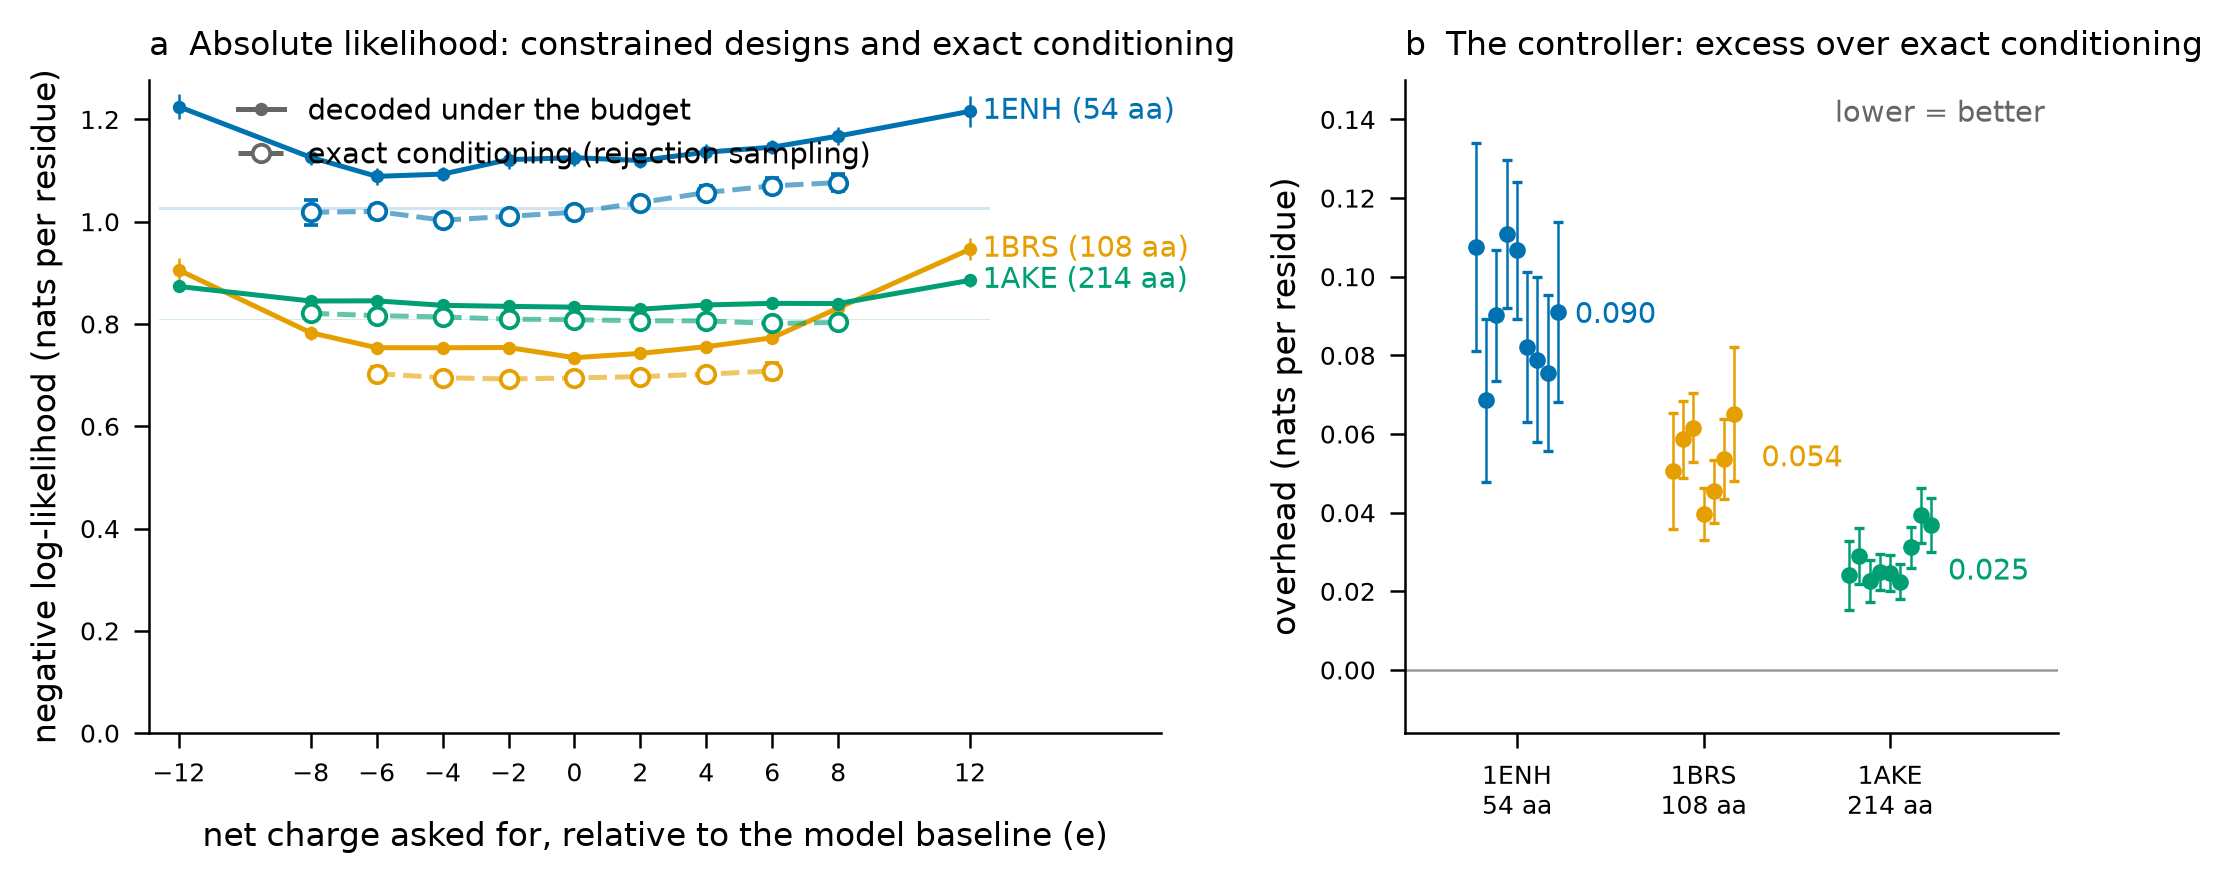
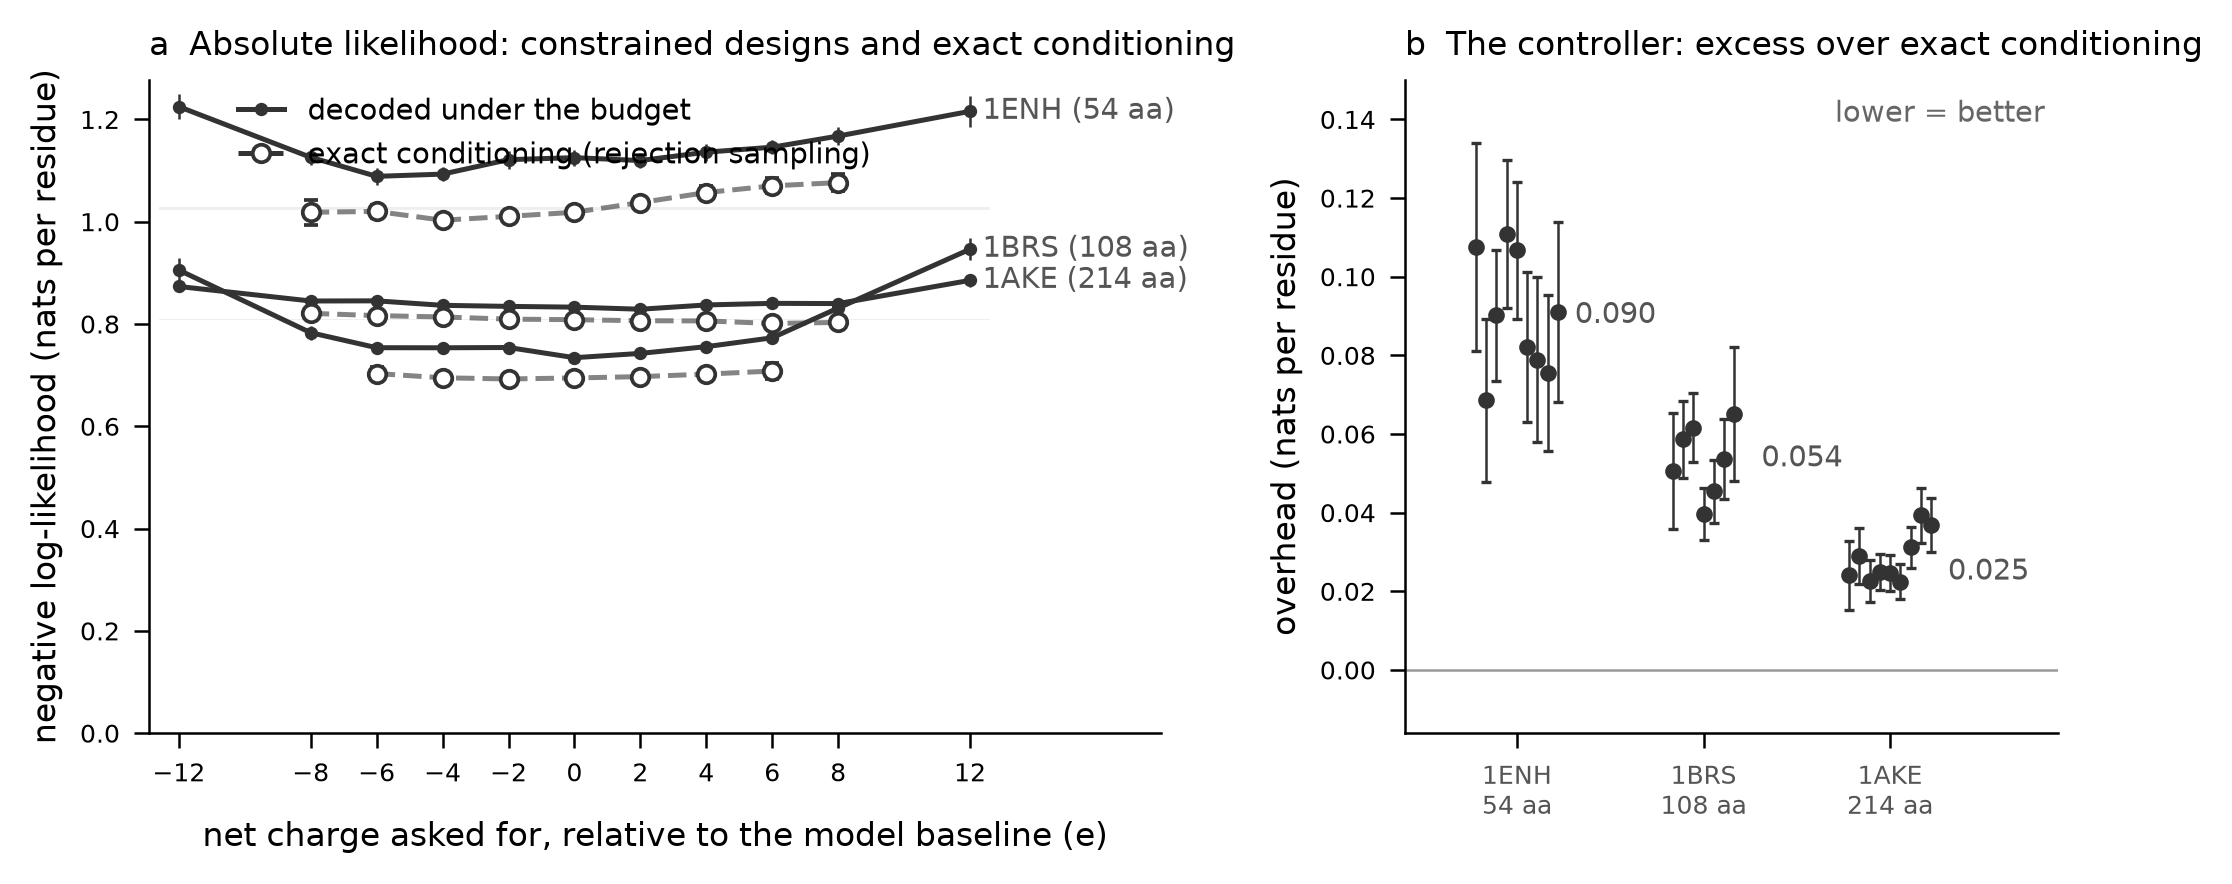
Use neutral gray only in benchmark figure; filled vs unfilled markers distinguish conditions
Panel (a): filled markers = constrained designs, unfilled = rejection sampling.
Both use gray line and gray point fill, no color per backbone. Pool baseline band
is light gray. Backbone labels are text only, no color coding.

Panel (b): overhead points in gray only; no colored median lines.

diff --git a/benchmarks/plot_charge_cost.py b/benchmarks/plot_charge_cost.py
@@ -3,9 +3,9 @@
     python benchmarks/plot_charge_cost.py     # reads results/charge_cost_summary.csv
 
 Panel (a) shows absolute per-residue NLL for designs decoded under the budget (filled markers) and
-the true conditional via rejection sampling (unfilled markers), connected by backbone.
-The shaded band is the unconstrained pool baseline ± 95% CI. Panel (b) is the controller's overhead,
-with error bars showing both sources of noise.
+the true conditional via rejection sampling (unfilled markers). Both use neutral gray; distinction
+is marker fill only. The shaded band is the unconstrained pool baseline ± 95% CI. Panel (b) shows
+the controller's overhead per backbone, with error bars.
 """
 import argparse
 import os
@@ -16,7 +16,7 @@ import pandas as pd
 from scipy import stats
 
 HERE = os.path.dirname(os.path.abspath(__file__))
-COLOURS = {'1ENH': '#0072B2', '1BRS': '#E69F00', '1AKE': '#009E73'}
+LINE_COLOUR = '#333333'
 SIZES = (8, 7, 6)
 
 def style() -> None:
@@ -50,32 +50,32 @@ def main() -> int:
 
     for backbone in order:
         rows = summary[summary.backbone == backbone].sort_values('offset')
-        colour = COLOURS[backbone]
         pool_nll = rows.pool_nll.iloc[0]; pool_sd = rows.pool_sd.iloc[0]; pool_n = rows.n_pool.iloc[0]
         pool_half = half_width(pool_sd, pool_n)
         nll_axes.fill_between(span, [pool_nll - pool_half] * 2, [pool_nll + pool_half] * 2, 
-                              color=colour, alpha=0.18, linewidth=0, zorder=1)
+                              color='#cccccc', alpha=0.3, linewidth=0, zorder=1)
         
-        # Constrained designs: filled markers with connecting line
+        # Constrained designs: filled markers with connecting line, neutral color
         error = [half_width(sd, n) for sd, n in zip(rows.constrained_sd, rows.n_constrained)]
-        nll_axes.plot(rows.offset, rows.constrained_nll, color=colour, linewidth=1.2, zorder=2)
-        nll_axes.errorbar(rows.offset, rows.constrained_nll, yerr=error, color=colour, marker='o',
-                          markersize=3.2, markerfacecolor=colour, markeredgewidth=0, 
+        nll_axes.plot(rows.offset, rows.constrained_nll, color=LINE_COLOUR, linewidth=1.2, zorder=2)
+        nll_axes.errorbar(rows.offset, rows.constrained_nll, yerr=error, color=LINE_COLOUR, marker='o',
+                          markersize=3.2, markerfacecolor=LINE_COLOUR, markeredgewidth=0, 
                           elinewidth=0.6, capsize=1.6, linestyle='none', zorder=3)
         
-        # Rejection sampling: unfilled markers with connecting line
+        # Rejection sampling: unfilled markers with connecting line, neutral color
         reference = rows.dropna(subset=['rejection_nll']).copy()
         if len(reference) > 0:
             reference_error = [half_width(sd, n) for sd, n in zip(reference.rejection_sd, reference.n_rejection)]
-            nll_axes.plot(reference.offset, reference.rejection_nll, color=colour, linewidth=1.2, 
+            nll_axes.plot(reference.offset, reference.rejection_nll, color=LINE_COLOUR, linewidth=1.2, 
                          linestyle='--', alpha=0.6, zorder=2)
             nll_axes.errorbar(reference.offset, reference.rejection_nll, yerr=reference_error,
-                              color=colour, marker='o', markersize=4.2, markerfacecolor='white', 
-                              markeredgewidth=0.9, linestyle='none', elinewidth=0.6, capsize=1.6, zorder=4)
+                              color=LINE_COLOUR, marker='o', markersize=4.2, markerfacecolor='white', 
+                              markeredgecolor=LINE_COLOUR, markeredgewidth=0.9, linestyle='none', 
+                              elinewidth=0.6, capsize=1.6, zorder=4)
         
         last = rows.iloc[-1]
         nll_axes.annotate(f'{backbone} ({last.length} aa)', xy=(last.offset, last.constrained_nll),
-                          xytext=(3, 0), textcoords='offset points', color=colour, va='center', fontsize=SIZES[1])
+                          xytext=(3, 0), textcoords='offset points', color='#555555', va='center', fontsize=SIZES[1])
 
     nll_axes.set_xlabel('net charge asked for, relative to the model baseline (e)', labelpad=8)
     nll_axes.set_ylabel('negative log-likelihood (nats per residue)')
@@ -84,29 +84,31 @@ def main() -> int:
     nll_axes.set_xlim(span[0] - 0.3, span[1] + 5.2)
     nll_axes.set_ylim(0, None)
     nll_axes.margins(y=0.02)
-    nll_axes.plot([], [], color='#666666', marker='o', markersize=3.2, markerfacecolor='#666666',
+    nll_axes.plot([], [], color=LINE_COLOUR, marker='o', markersize=3.2, markerfacecolor=LINE_COLOUR,
                   markeredgewidth=0, linestyle='-', linewidth=1.2, label='decoded under the budget')
-    nll_axes.plot([], [], color='#666666', marker='o', markersize=4.2, markerfacecolor='white',
-                  markeredgewidth=0.9, linestyle='--', linewidth=1.2, label='exact conditioning (rejection sampling)')
+    nll_axes.plot([], [], color=LINE_COLOUR, marker='o', markersize=4.2, markerfacecolor='white',
+                  markeredgecolor=LINE_COLOUR, markeredgewidth=0.9, linestyle='--', linewidth=1.2, 
+                  label='exact conditioning (rejection sampling)')
     nll_axes.legend(loc='upper center', bbox_to_anchor=(0.40, 1.0), fontsize=SIZES[1], handlelength=1.6, borderaxespad=0.2)
 
+    # Panel (b): overhead by backbone, no colored median lines
     for position, backbone in enumerate(order):
         rows = summary[summary.backbone == backbone].dropna(subset=['excess_nll']).copy()
-        colour = COLOURS[backbone]
         rows['half'] = rows.apply(overhead_interval, axis=1)
         rows['clear'] = rows.excess_nll - rows.half > 0
         shifts = [(index - (len(rows) - 1) / 2) * 0.055 for index in range(len(rows))]
         for shift, (_, row) in zip(shifts, rows.iterrows()):
-            overhead_axes.errorbar(position + shift, row.excess_nll, yerr=row.half, color=colour,
-                                   marker='o', markersize=3.2, markerfacecolor=colour if row.clear else 'white',
-                                   markeredgewidth=0.8, elinewidth=0.6, capsize=1.2, linestyle='none', zorder=3)
+            overhead_axes.errorbar(position + shift, row.excess_nll, yerr=row.half, color=LINE_COLOUR,
+                                   marker='o', markersize=3.2, markerfacecolor=LINE_COLOUR if row.clear else 'white',
+                                   markeredgecolor=LINE_COLOUR, markeredgewidth=0.8, elinewidth=0.6, 
+                                   capsize=1.2, linestyle='none', zorder=3)
         median = rows.excess_nll.median()
         overhead_axes.annotate(f'{median:.03f}', xy=(position + 0.31, median), fontsize=SIZES[1],
-                               color=colour, va='center', ha='left')
+                               color='#555555', va='center', ha='left')
     
     overhead_axes.axhline(0.0, color='#999999', linewidth=0.6, zorder=1)
     overhead_axes.set_xticks(range(len(order)))
-    overhead_axes.set_xticklabels([f'{b}\n{summary.loc[summary.backbone == b, "length"].iloc[0]} aa' for b in order])
+    overhead_axes.set_xticklabels([f'{b}\n{summary.loc[summary.backbone == b, "length"].iloc[0]} aa' for b in order], color='#555555')
     overhead_axes.set_xlim(-0.6, len(order) - 0.1)
     overhead_axes.margins(y=0.12)
     overhead_axes.set_ylabel('overhead (nats per residue)')
